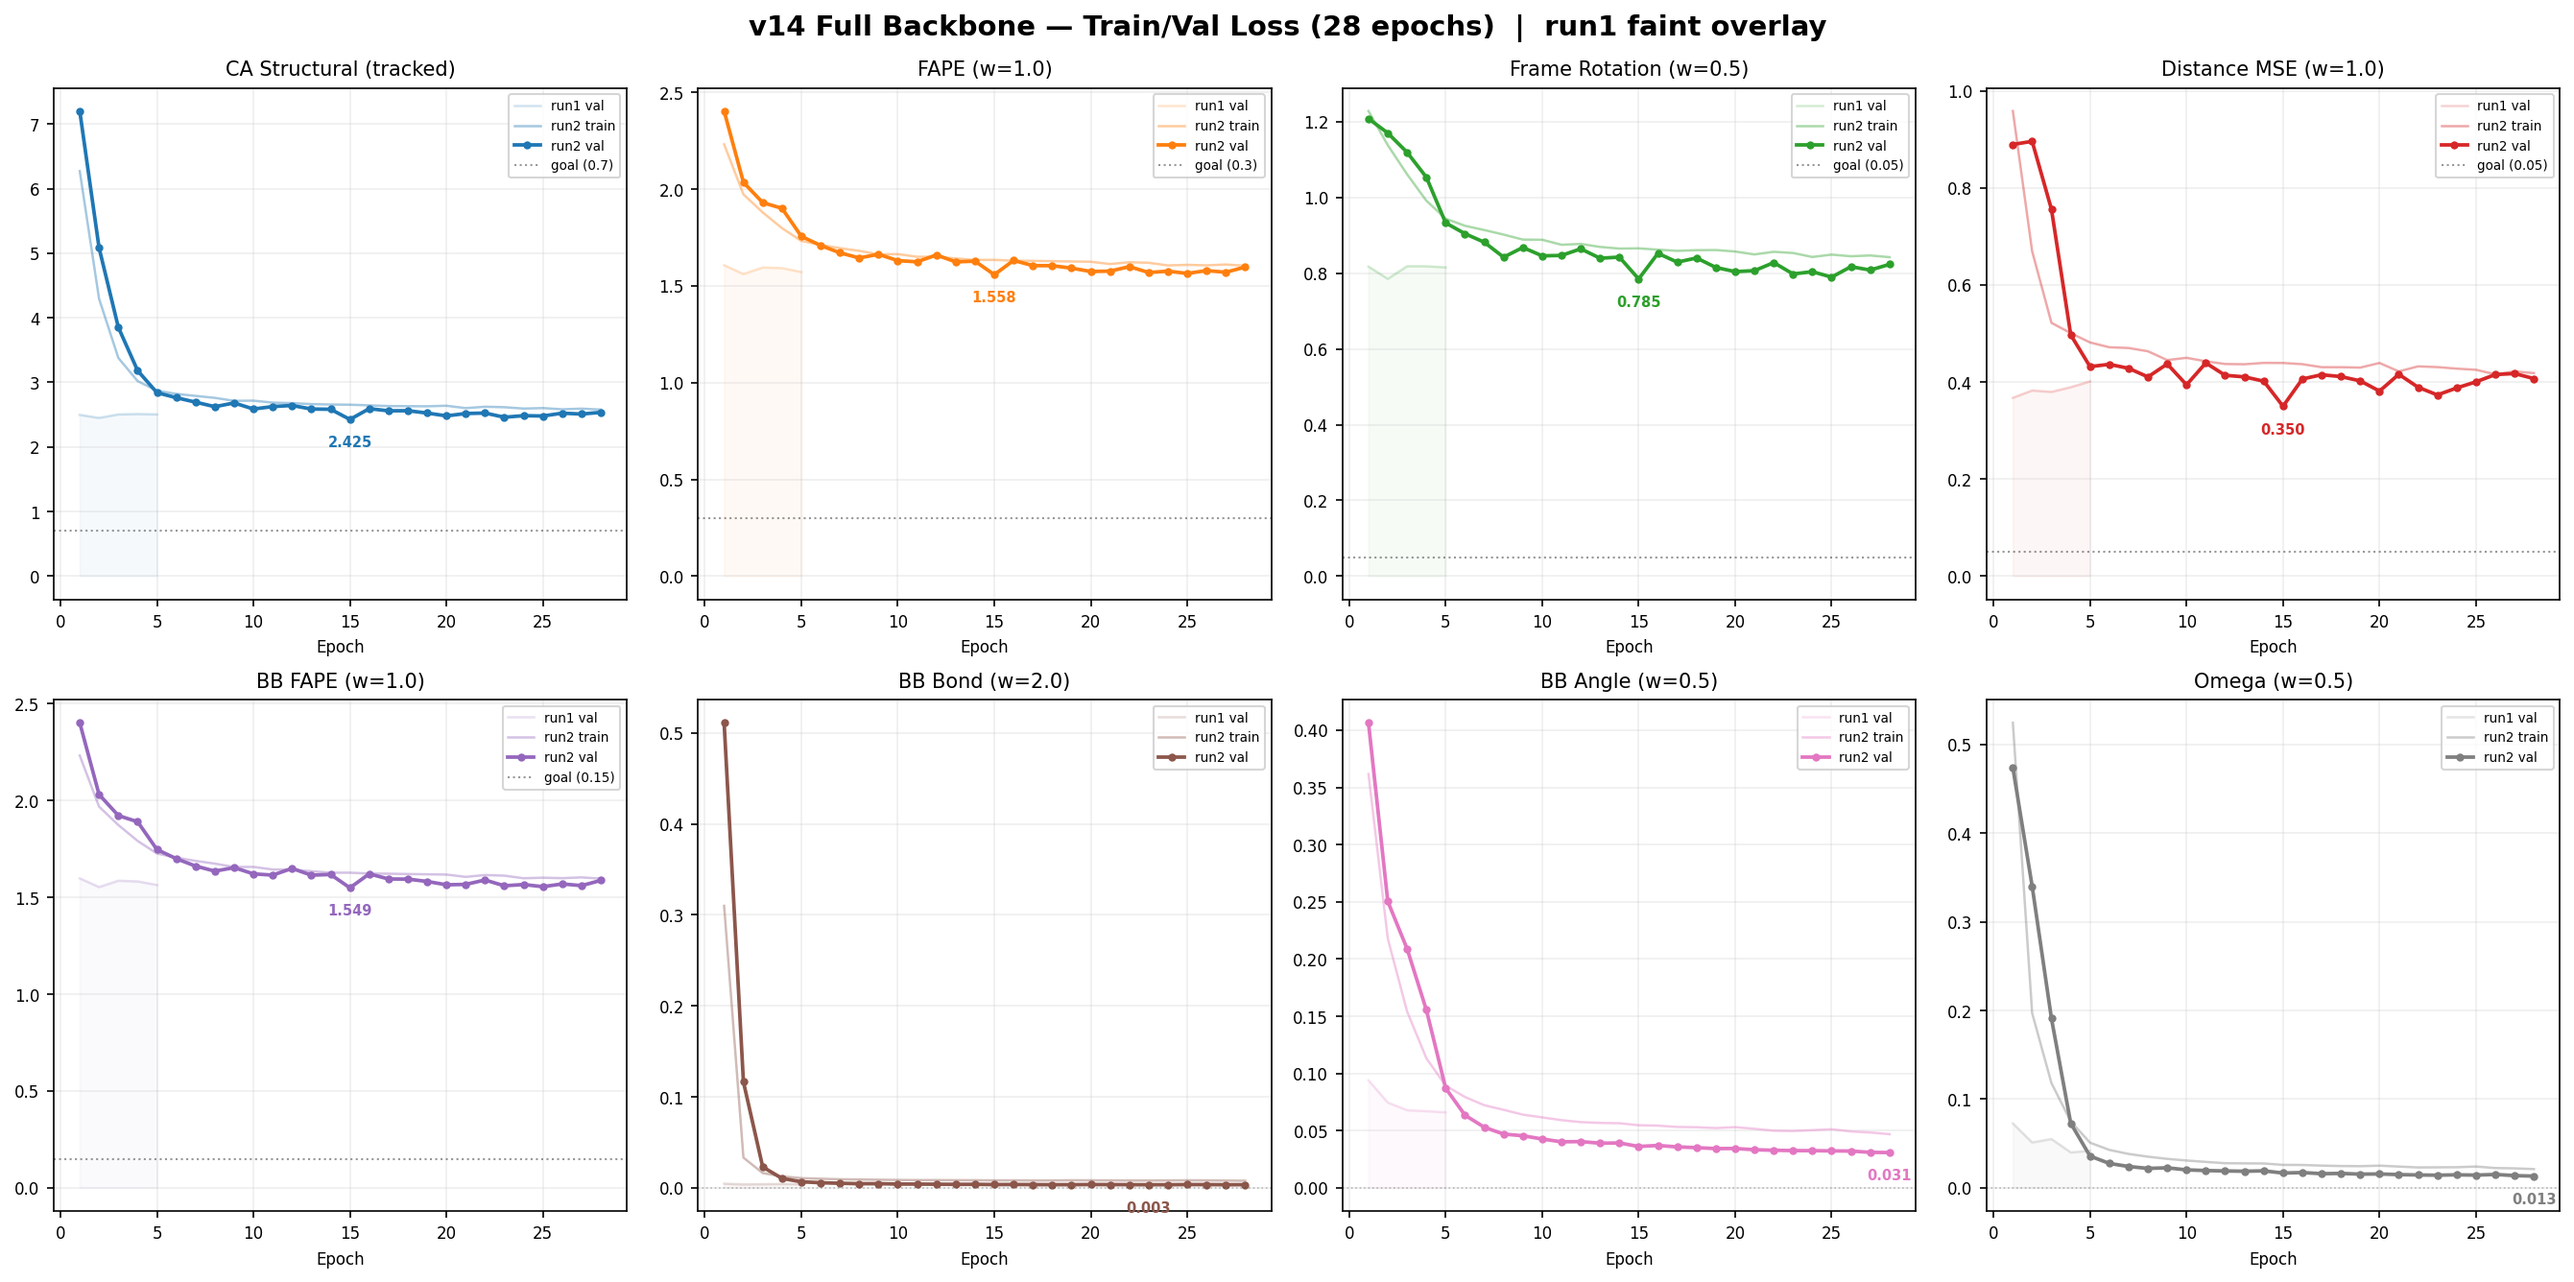
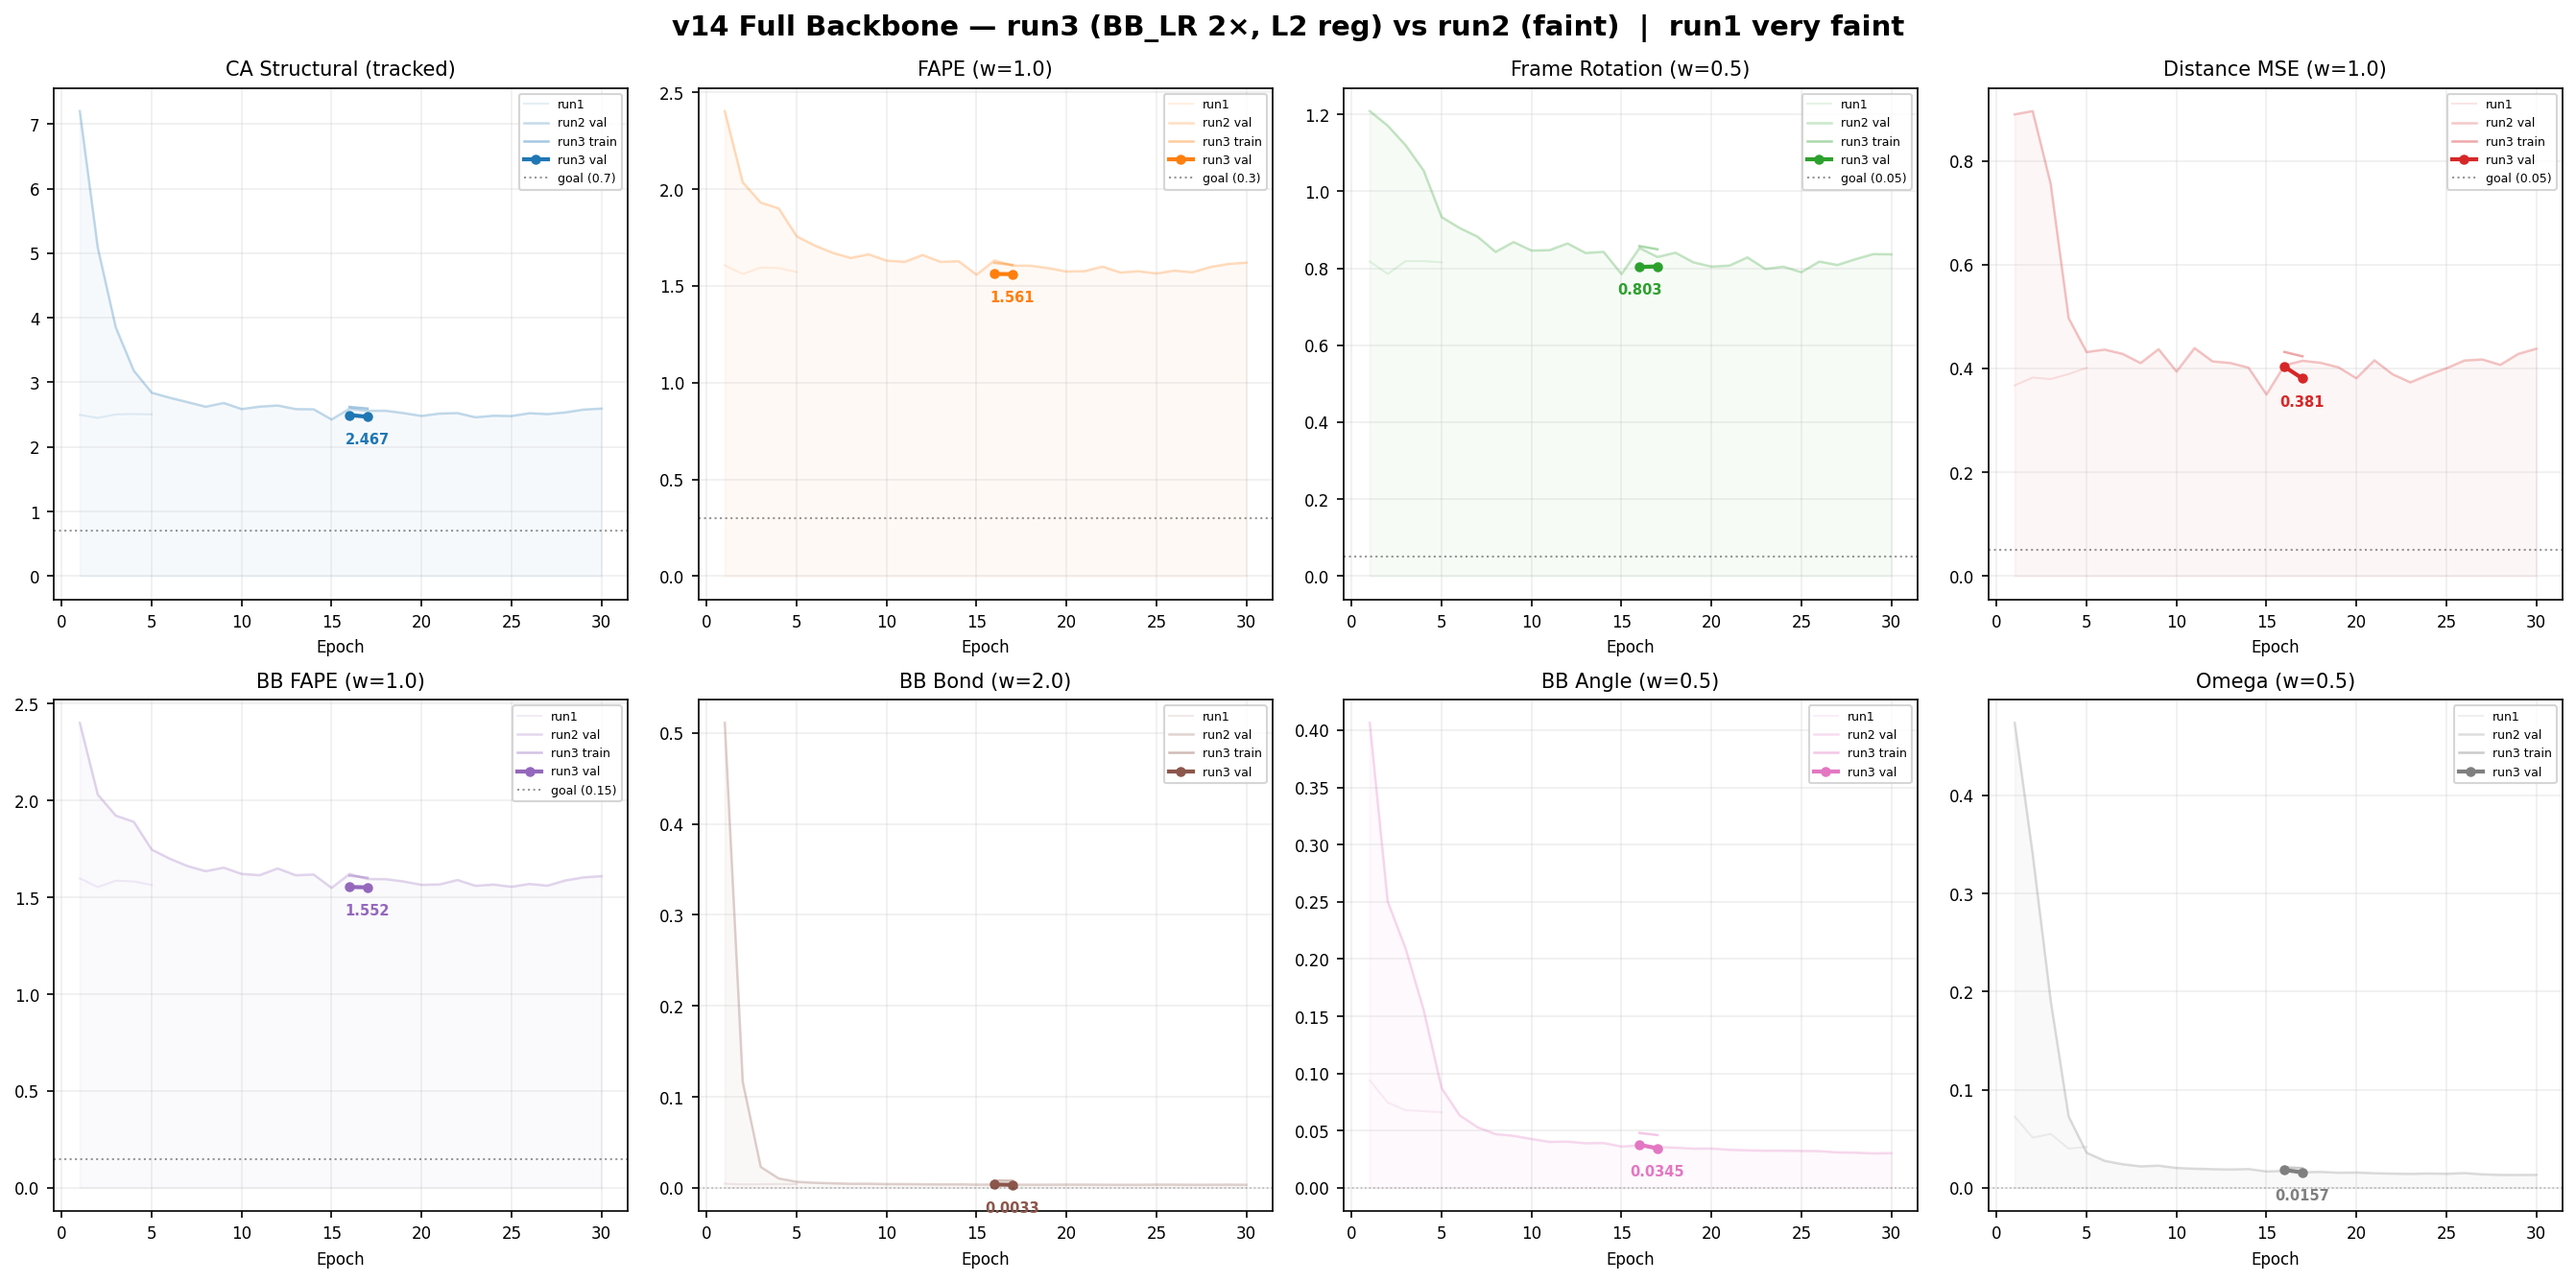
Update tables and plots: v13b E30-32, v14 run2 early stopped, run3 started
v13b: New best at E31 — structural 2.461 (still improving!). Pat 1/15.

v14 run2: Early stopped at E30 (patience 15/15). Best: 2.425 at E15.

v14 run3: Restarted from E15 best with BB_LR 2× (was 5×) and L2 offset
penalty (0.1). E16-17 completed, patience 2/15. Loss curves now show
run3 (bold) vs run2 (faint) vs run1 (very faint).

diff --git a/minifold.html b/minifold.html
@@ -194,7 +194,7 @@
       Full architecture history, training tables, loss functions, and analysis for the protein backbone diffusion model.
     </p>
     <p id="last-updated" style="color: var(--text-secondary); font-size: 13px; margin-bottom: 16px; font-style: italic;">
-      Last updated: Mar 13, 2026 at 5:30 PM PST
+      Last updated: Mar 13, 2026 at 8:45 PM PST
     </p>
 
     <div class="mf-tabs">
@@ -418,6 +418,9 @@
             <tr><td>27</td><td>2.610</td><td>2.488</td><td>1.665</td><td>0.844</td><td>0.380</td><td>0.006</td><td>0.303</td><td>0.364</td><td>0.125</td><td>0.035</td><td>&mdash;</td><td><span class="tag tag-stale">pat 1/15</span></td></tr>
             <tr><td><strong>28</strong></td><td><strong>2.487</strong></td><td style="color: #2ca02c;"><strong>2.475</strong></td><td>1.604</td><td>0.810</td><td>0.339</td><td>0.006</td><td>0.423</td><td>0.345</td><td>0.113</td><td>0.035</td><td>&mdash;</td><td><span class="tag tag-best">NEW BEST</span></td></tr>
             <tr><td>29</td><td>2.597</td><td>2.475</td><td>1.669</td><td>0.830</td><td>0.376</td><td>0.005</td><td>0.394</td><td>0.347</td><td>0.114</td><td>0.035</td><td>&mdash;</td><td><span class="tag tag-stale">pat 1/15</span></td></tr>
+            <tr><td>30</td><td>2.558</td><td>2.475</td><td>1.630</td><td>0.829</td><td>0.374</td><td>0.006</td><td>0.421</td><td>0.357</td><td>0.116</td><td>0.035</td><td>&mdash;</td><td><span class="tag tag-stale">pat 2/15</span></td></tr>
+            <tr><td><strong>31</strong></td><td><strong>2.471</strong></td><td style="color: #2ca02c;"><strong>2.461</strong></td><td>1.597</td><td>0.801</td><td>0.337</td><td>0.005</td><td>0.345</td><td>0.359</td><td>0.116</td><td>0.035</td><td>&mdash;</td><td><span class="tag tag-best">NEW BEST</span></td></tr>
+            <tr><td>32</td><td>2.504</td><td>2.461</td><td>1.625</td><td>0.814</td><td>0.336</td><td>0.005</td><td>0.350</td><td>0.353</td><td>0.114</td><td>0.034</td><td>&mdash;</td><td><span class="tag tag-stale">pat 1/15</span></td></tr>
           </tbody>
         </table>
       </div>
@@ -632,6 +635,8 @@
             <tr><td>26</td><td>4.132</td><td>2.425</td><td>1.579</td><td>0.817</td><td>0.415</td><td>1.569</td><td>0.004</td><td>0.015</td><td>&mdash;</td><td><span class="tag tag-stale">pat 11/15</span></td></tr>
             <tr><td>27</td><td>4.108</td><td>2.425</td><td>1.571</td><td>0.808</td><td>0.417</td><td>1.560</td><td>0.003</td><td>0.014</td><td>&mdash;</td><td><span class="tag tag-stale">pat 12/15</span></td></tr>
             <tr><td>28</td><td>4.160</td><td>2.425</td><td>1.598</td><td>0.824</td><td>0.407</td><td>1.587</td><td>0.004</td><td>0.013</td><td>&mdash;</td><td><span class="tag tag-stale">pat 13/15</span></td></tr>
+            <tr><td>29</td><td>4.219</td><td>2.425</td><td>1.614</td><td>0.837</td><td>0.428</td><td>1.603</td><td>0.004</td><td>0.013</td><td>&mdash;</td><td><span class="tag tag-stale">pat 14/15</span></td></tr>
+            <tr><td>30</td><td>4.241</td><td>2.425</td><td>1.621</td><td>0.836</td><td>0.438</td><td>1.610</td><td>0.003</td><td>0.013</td><td>&mdash;</td><td><span class="tag tag-stop">EARLY STOP</span></td></tr>
           </tbody>
         </table>
       </div>
